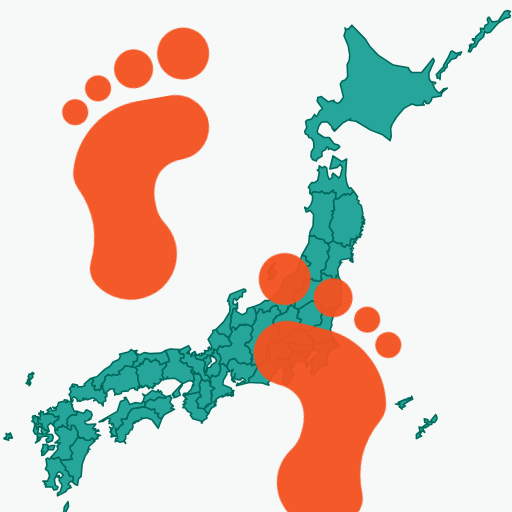
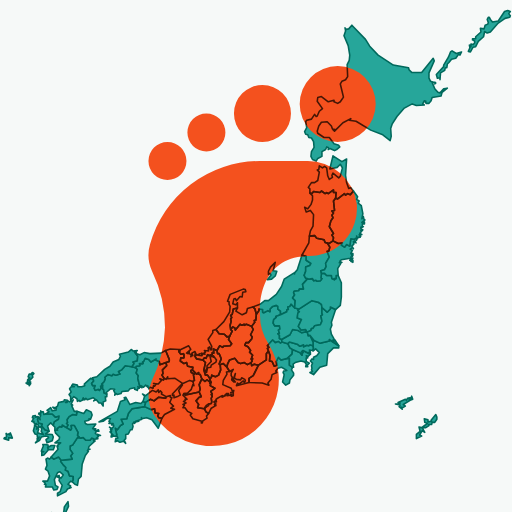
feat: アイコン本採用を1足+輪郭線版に変更、2足版は予備として保管
- 本採用: 地図全面+中央の大足跡1つ+足跡上に暗オレンジの県境線
- 予備: 足跡2つ版を store_assets/icon_backup_*.png として保管
- 旧 icon_alt_*.png を削除、生成スクリプトを tool/gen_icons.js としてリポジトリに収録

diff --git a/tool/gen_icons.js b/tool/gen_icons.js
@@ -1,0 +1,82 @@
+// アプリアイコン生成スクリプト
+//
+// 使い方:
+//   node tool/gen_icons.js            → tool/out/ に SVG を出力
+//   その後 headless Chrome で PNG 化:
+//     chrome --headless --disable-gpu --window-size=1024,1024 --screenshot=<out.png> <in.svg>
+//     (前景版は --default-background-color=00000000 を付けて透過で出力)
+//   PNG を assets/icon/ と store_assets/ に配置し、
+//   flutter pub run flutter_launcher_icons で全サイズ展開する。
+//
+// デザイン:
+//   main   = 本採用: 日本地図全面+中央に大足跡1つ(ベタ塗り)+足跡上に暗オレンジの県境線
+//   backup = 予備:   日本地図全面+足跡2つ(左足前・右足後ろ)
+//
+// クレジット: 足跡 = Material Design Icons "foot-print"(Apache License 2.0)
+//             地図 = geolonia/japanese-prefectures(MIT License)
+const fs = require('fs');
+const path = require('path');
+
+const root = path.join(__dirname, '..');
+const outDir = path.join(__dirname, 'out');
+if (!fs.existsSync(outDir)) fs.mkdirSync(outDir);
+
+let map = fs.readFileSync(path.join(root, 'assets/japan.svg'), 'utf8');
+map = map.replace(/<\?xml[^>]*\?>/, '');
+map = map.replace(/<g class="boundary-line"[\s\S]*?<\/g>/, '');
+map = map.replace(/<svg[^>]*>/, '').replace(/<\/svg>\s*$/, '');
+map = map.replace(/<title>[^<]*<\/title>/g, '');
+
+const teal = map
+  .replace(/fill="#EEEEEE"/g, 'fill="#26A69A"')
+  .replace(/stroke="#000000"/g, 'stroke="#00695C"')
+  .replace(/stroke-width="1\.0"/g, 'stroke-width="3"');
+
+const outline = map
+  .replace(/fill="#EEEEEE"/g, 'fill="none"')
+  .replace(/stroke="#000000"/g, 'stroke="#451605"')
+  .replace(/stroke-width="1\.0"/g, 'stroke-width="3"');
+
+const mdiFoot = 'M16 2A2 2 0 1 1 14 4A2 2 0 0 1 16 2M12.04 3A1.5 1.5 0 1 1 10.54 4.5A1.5 1.5 0 0 1 12.04 3M9.09 4.5A1 1 0 1 1 8.09 5.5A1 1 0 0 1 9.09 4.5M7.04 6A1 1 0 1 1 6.04 7A1 1 0 0 1 7.04 6M14.53 12A2.5 2.5 0 0 0 17 9.24A2.6 2.6 0 0 0 14.39 7H11.91A6 6 0 0 0 6.12 11.4A2 2 0 0 0 6.23 12.8A6.8 6.8 0 0 1 6.91 15.76A6.89 6.89 0 0 1 6.22 18.55A1.92 1.92 0 0 0 6.3 20.31A3.62 3.62 0 0 0 10.19 21.91A3.5 3.5 0 0 0 12.36 16.63A2.82 2.82 0 0 1 11.91 15S11.68 12 14.53 12Z';
+const mapTransform = 'translate(4,21) scale(1.02)';
+
+// ---- 本採用: 1足+輪郭線オーバーレイ ----
+const fpTransform = 'translate(512,512) scale(38) translate(-11.7,-12)';
+const mainContent = `
+  <g transform="${mapTransform}">${teal}</g>
+  <path d="${mdiFoot}" fill="#F4511E" transform="${fpTransform}"/>
+  <g clip-path="url(#fpclip)">
+    <g transform="${mapTransform}">${outline}</g>
+  </g>`;
+const mainDefs = `
+  <defs>
+    <clipPath id="fpclip">
+      <path d="${mdiFoot}" transform="${fpTransform}"/>
+    </clipPath>
+  </defs>`;
+
+const mainFull = `<svg viewBox="0 0 1024 1024" xmlns="http://www.w3.org/2000/svg">
+  ${mainDefs}
+  <rect width="1024" height="1024" fill="#F6F9F8"/>
+  ${mainContent}
+</svg>`;
+
+const mainFg = `<svg viewBox="0 0 1024 1024" xmlns="http://www.w3.org/2000/svg">
+  ${mainDefs}
+  <g transform="translate(512,512) scale(0.62) translate(-512,-512)">${mainContent}</g>
+</svg>`;
+
+// ---- 予備: 足跡2つ(左足前) ----
+const backupFull = `<svg viewBox="0 0 1024 1024" xmlns="http://www.w3.org/2000/svg">
+  <rect width="1024" height="1024" fill="#F6F9F8"/>
+  <g transform="${mapTransform}">${teal}</g>
+  <g fill="#F4511E" opacity="0.95">
+    <path d="${mdiFoot}" transform="translate(300,330) rotate(-10) scale(26) translate(-12,-12)"/>
+    <path d="${mdiFoot}" transform="translate(620,785) rotate(14) scale(-26,26) translate(-12,-12)"/>
+  </g>
+</svg>`;
+
+fs.writeFileSync(path.join(outDir, 'icon_main_full.svg'), mainFull);
+fs.writeFileSync(path.join(outDir, 'icon_main_fg.svg'), mainFg);
+fs.writeFileSync(path.join(outDir, 'icon_backup_full.svg'), backupFull);
+console.log('SVGs written to tool/out/');
